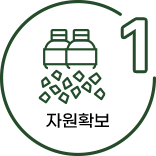
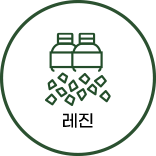
recycle 픽토그램변경, 문의하기 기능 완료

Changed region(s): [[0.2308, 0.1795, 0.7179, 0.6923], [0.7692, 0.0769, 1.0, 0.5128], [0.2821, 0.7179, 0.7179, 0.8205]]

diff --git a/ecocentre/src/components/Send.js b/ecocentre/src/components/Send.js
@@ -1,12 +1,44 @@
-import React, { useState } from "react";
+import React, { useRef, useState } from "react";
 import Button from "react-bootstrap/Button";
 import Modal from "react-bootstrap/Modal";
+
+import emailjs from "@emailjs/browser";
 
 function Send() {
   const [show, setShow] = useState(false);
 
+  const today = new Date();
+  const [currentDate, setCurrentDate] = useState(
+    `${today.getFullYear()}년 ${today.getMonth() + 1}월 ${today.getDate()}일`
+  );
+
   const handleClose = () => setShow(false);
   const handleShow = () => setShow(true);
+
+  const formRef = useRef();
+
+  const hadlerSubmit = (e) => {
+    e.preventDefault();
+
+    if (formRef.current) {
+      emailjs
+        .sendForm(
+          "service_s0w01yd",
+          "template_xau7pib",
+          formRef.current,
+          "ip3SdqpP_xFRKcple"
+        )
+        .then(
+          (result) => {
+            console.log("문의하기 전송 성공");
+            window.location.reload();
+          },
+          (error) => {
+            console.log("문의하기 전송 실패");
+          }
+        );
+    }
+  };
 
   return (
     <>
@@ -24,7 +56,13 @@ function Send() {
           <Modal.Title>문의하기</Modal.Title>
         </Modal.Header>
         <Modal.Body>
-          <form id="contact-form">
+          <form
+            id="contact-form"
+            ref={formRef}
+            onSubmit={(e) => {
+              hadlerSubmit(e);
+            }}
+          >
             <div className="form-name">
               <label>이름</label>
               <input
@@ -56,7 +94,12 @@ function Send() {
                 placeholder="문의 내용을 입력해주세요."
               ></textarea>
             </div>
-            <input type="text" name="date" style={{ display: "none" }} />
+            <input
+              type="text"
+              name="date"
+              defaultValue={currentDate}
+              style={{ display: "none" }}
+            />
             <input type="submit" value="보내기" />
           </form>
         </Modal.Body>

diff --git a/ecocentre/src/section/Recycle.js b/ecocentre/src/section/Recycle.js
@@ -160,6 +160,9 @@ function Recycle() {
             <li>
               <img src="/assets/image/recycle/recycle04-01.png" alt="01" />
             </li>
+            <li className="arrow">
+              <img src="/assets/image/recycle/arrow.svg" alt="arrow" />
+            </li>
             <li>
               <img src="/assets/image/recycle/recycle04-02.png" alt="02" />
             </li>
@@ -168,9 +171,6 @@ function Recycle() {
             </li>
             <li>
               <img src="/assets/image/recycle/recycle04-04.png" alt="04" />
-            </li>
-            <li>
-              <img src="/assets/image/recycle/recycle04-05.png" alt="05" />
             </li>
           </ul>
         </div>

diff --git a/ecocentre/src/Style.scss b/ecocentre/src/Style.scss
@@ -1125,6 +1125,18 @@ ul {
             object-fit: cover;
           }
         }
+        li.arrow {
+          width: 70px;
+          height: 70px;
+          @include tablet() {
+            width: 50px;
+            height: 50px;
+          }
+          @include mobile() {
+            width: 30px;
+            height: 30px;
+          }
+        }
       }
     }
   }
